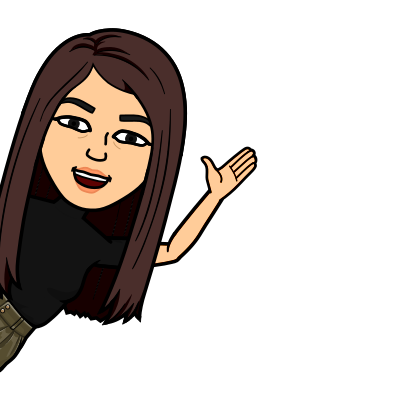
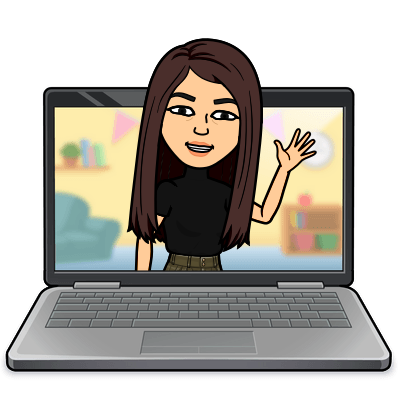
introduction section

diff --git a/src/components/introduction/Intro.jsx b/src/components/introduction/Intro.jsx
@@ -1,4 +1,5 @@
 import'./Intro.css'
+import Me from '../../img/me.png'
 
 const Intro = () => {
     return (
@@ -20,13 +21,71 @@ const Intro = () => {
         </div>
         </div>
     </div>
-    <div className='i-description'>
+    <p className='i-description'>
 Thanks for taking a look around my portfolio website! I am a former public school math teacher and current web developer. I love that coding allows me to learn and practice new things every day. I'm currently working on new projects to expand my skillset. When I'm not coding, you can find me cooking and creating new plant-based recipes or practicing yoga.
-    </div>
+    </p>
 </div>
+<svg
+          width="75"
+          height="75"
+          viewBox="0 0 75 75"
+          fill="none"
+          stroke="black"
+          className="i-scroll"
+          xmlns="http://www.w3.org/2000/svg"
+        >
+          <g id="scroll">
+            <path
+              id="Vector"
+              d="M40.5 15L34.5 9L28.5 15"
+              stroke-width="3"
+              stroke-miterlimit="10"
+              stroke-linecap="round"
+              stroke-linejoin="round"
+            />
+            <path
+              id="Vector_2"
+              d="M28.5 24L34.5 30L40.5 24"
+              stroke-width="3"
+              stroke-miterlimit="10"
+              stroke-linecap="round"
+              stroke-linejoin="round"
+            />
+            <g id="Group">
+              <path
+                id="Vector_3"
+                d="M9 37.5H60"
+                stroke-width="3"
+                stroke-miterlimit="10"
+                stroke-linecap="round"
+                stroke-linejoin="round"
+              />
+            </g>
+            <path
+              id="Vector_4"
+              d="M34.5 27V9"
+              stroke-width="2.9895"
+              stroke-miterlimit="10"
+              stroke-linecap="round"
+              stroke-linejoin="round"
+            />
+            <g id="Group_2">
+              <path
+                id="Vector_5"
+                d="M9 27C9 12.918 20.418 1.5 34.5 1.5C48.5859 1.5 60 12.918 60 27C60 29.8906 60 45.1094 60 48C60 62.082 48.5859 73.5 34.5 73.5C20.418 73.5 9 62.082 9 48C9 45.1094 9 29.8906 9 27Z"
+                stroke-width="3"
+                stroke-miterlimit="10"
+                stroke-linecap="round"
+                stroke-linejoin="round"
+              />
+            </g>
+          </g>
+        </svg>
 </div>
-<div className='i-right'>right</div>
-{/* <img src='' alt='' className='i-img'/> */}
+<div className='i-right'>
+<div className="i-bg"></div>
+<img src={Me} alt='A bitmoji of me.' className='i-img'/>
+</div>
         </div>
     )
 }

diff --git a/src/components/introduction/Intro.css b/src/components/introduction/Intro.css
@@ -11,12 +11,13 @@
     justify-content: center;
 }
 
-.i-right{
+.i-right {
     flex: 1;
+    position: relative;
     display: flex;
-    align-items: center;
     justify-content: center;
-}
+    align-items: center;
+  }
 
 .i-left-wrapper{
     padding: 50px;
@@ -57,10 +58,36 @@
     height: 50px;
     font-size: 30px;
     font-weight: bold;
-    color: green; 
+    color: lightseagreen; 
     display: flex;
     align-items: center;
 }
 
+.i-scroll {
+    width: 30px;
+    height: 30px;
+    position: absolute;
+    bottom: 20px;
+  }
+  
+  .i-img {
+    width: 40%;
+    height: 40%;
+    object-fit: cover;
+    position: absolute;
+    display: flex;
+    justify-content: center;
+  }
 
+.i-bg{
+    clip-path: circle(50% at 50% 50%);
+    background-color:white;
+    width: 60%;
+    height: 60%;
+    position: absolute;
+    top: 10;
+    right: 10;
+    /* justify-content: center;
+    align-items: center; */
+}
 
